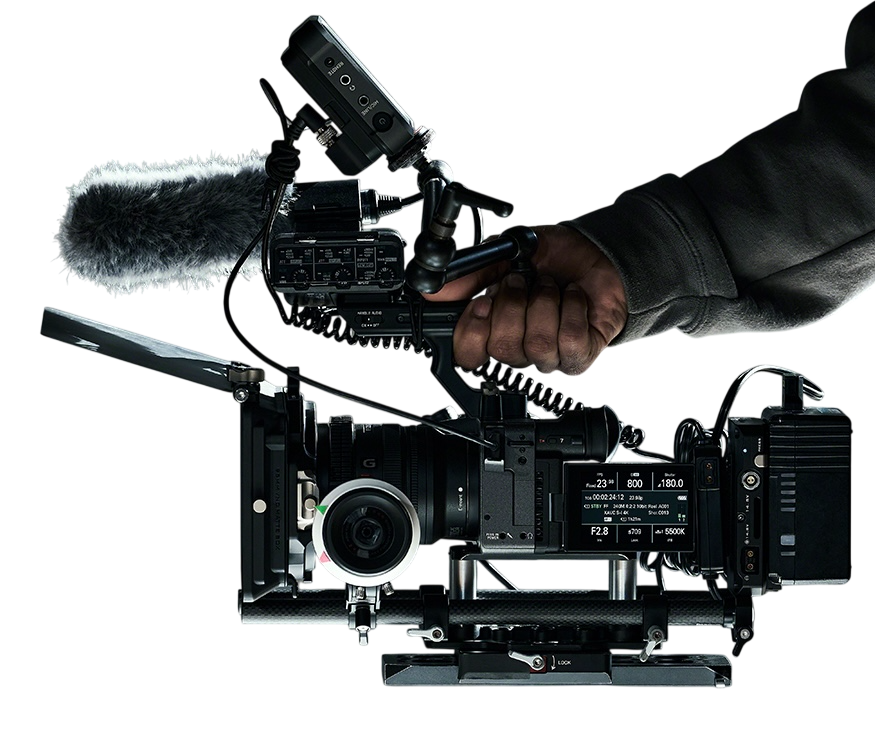
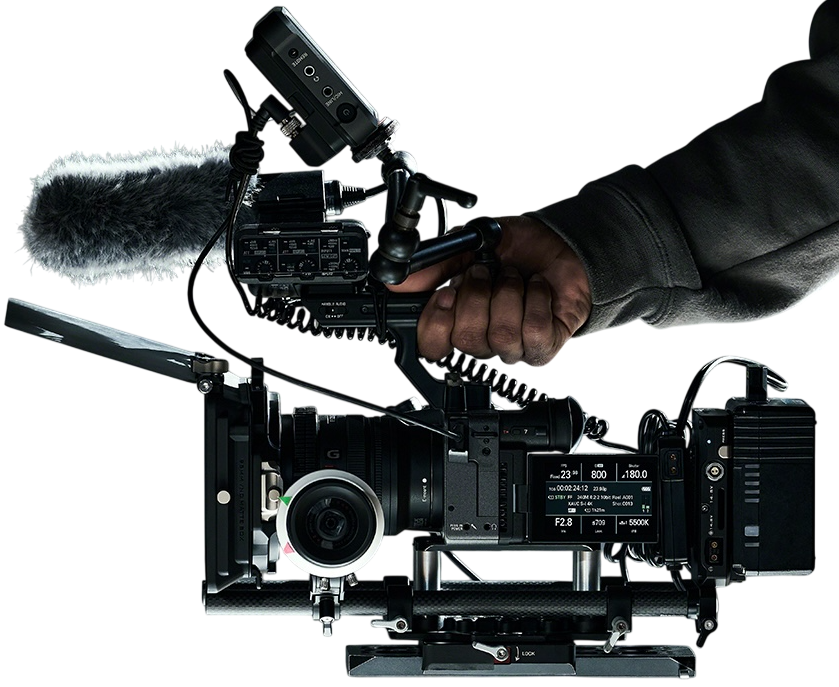
home pags tabs image updated

diff --git a/src/components/Home/Banner.jsx b/src/components/Home/Banner.jsx
@@ -66,9 +66,14 @@ function Banner() {
             <img
               src={Image1}
               alt="Cinematography"
-              width="183"
-              height="163"
-              style={{ width: "183px", height: "163px", objectFit: "contain" }}
+              style={{
+                maxWidth: "165px",
+                maxHeight: "150px",
+                width: "100%",
+                height: "auto",
+                objectFit: "contain",
+                padding: "10px 5px 10px 10px",
+              }}
             />
           </div>
         </Link>
@@ -106,9 +111,14 @@ function Banner() {
             <img
               src={Image2}
               alt="Producer"
-              width="158"
-              height="150"
-              style={{ width: "158px", height: "150px", objectFit: "cover" }}
+              style={{
+                maxWidth: "165px",
+                maxHeight: "150px",
+                width: "100%",
+                height: "auto",
+                objectFit: "contain",
+                padding: "10px 5px 10px 10px",
+              }}
             />
           </div>
         </Link>

diff --git a/style.css b/style.css
@@ -3497,7 +3497,8 @@ footer {
   }
 
   .home-banner-card-img img {
-    aspect-ratio: 245/218;
+    max-width: 100%;
+    height: auto;
     filter: grayscale(0%);
   }
 
